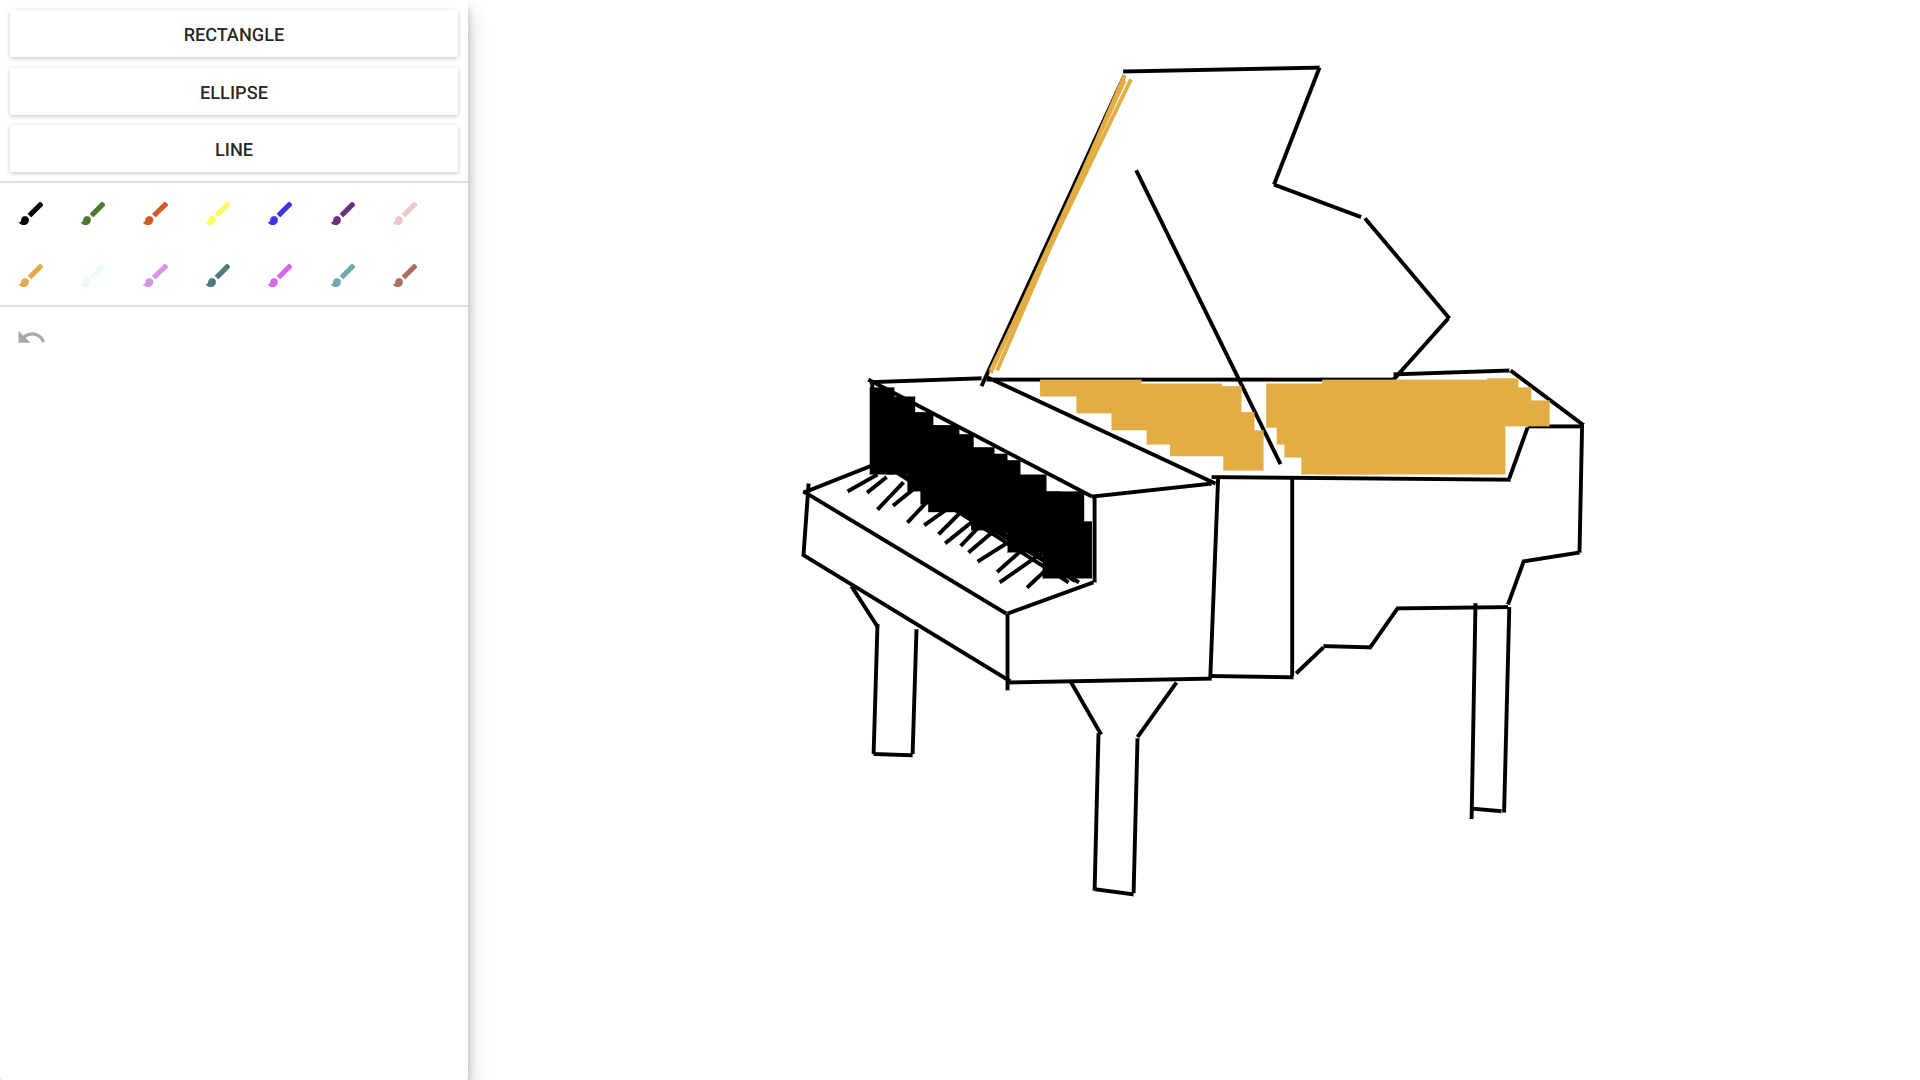
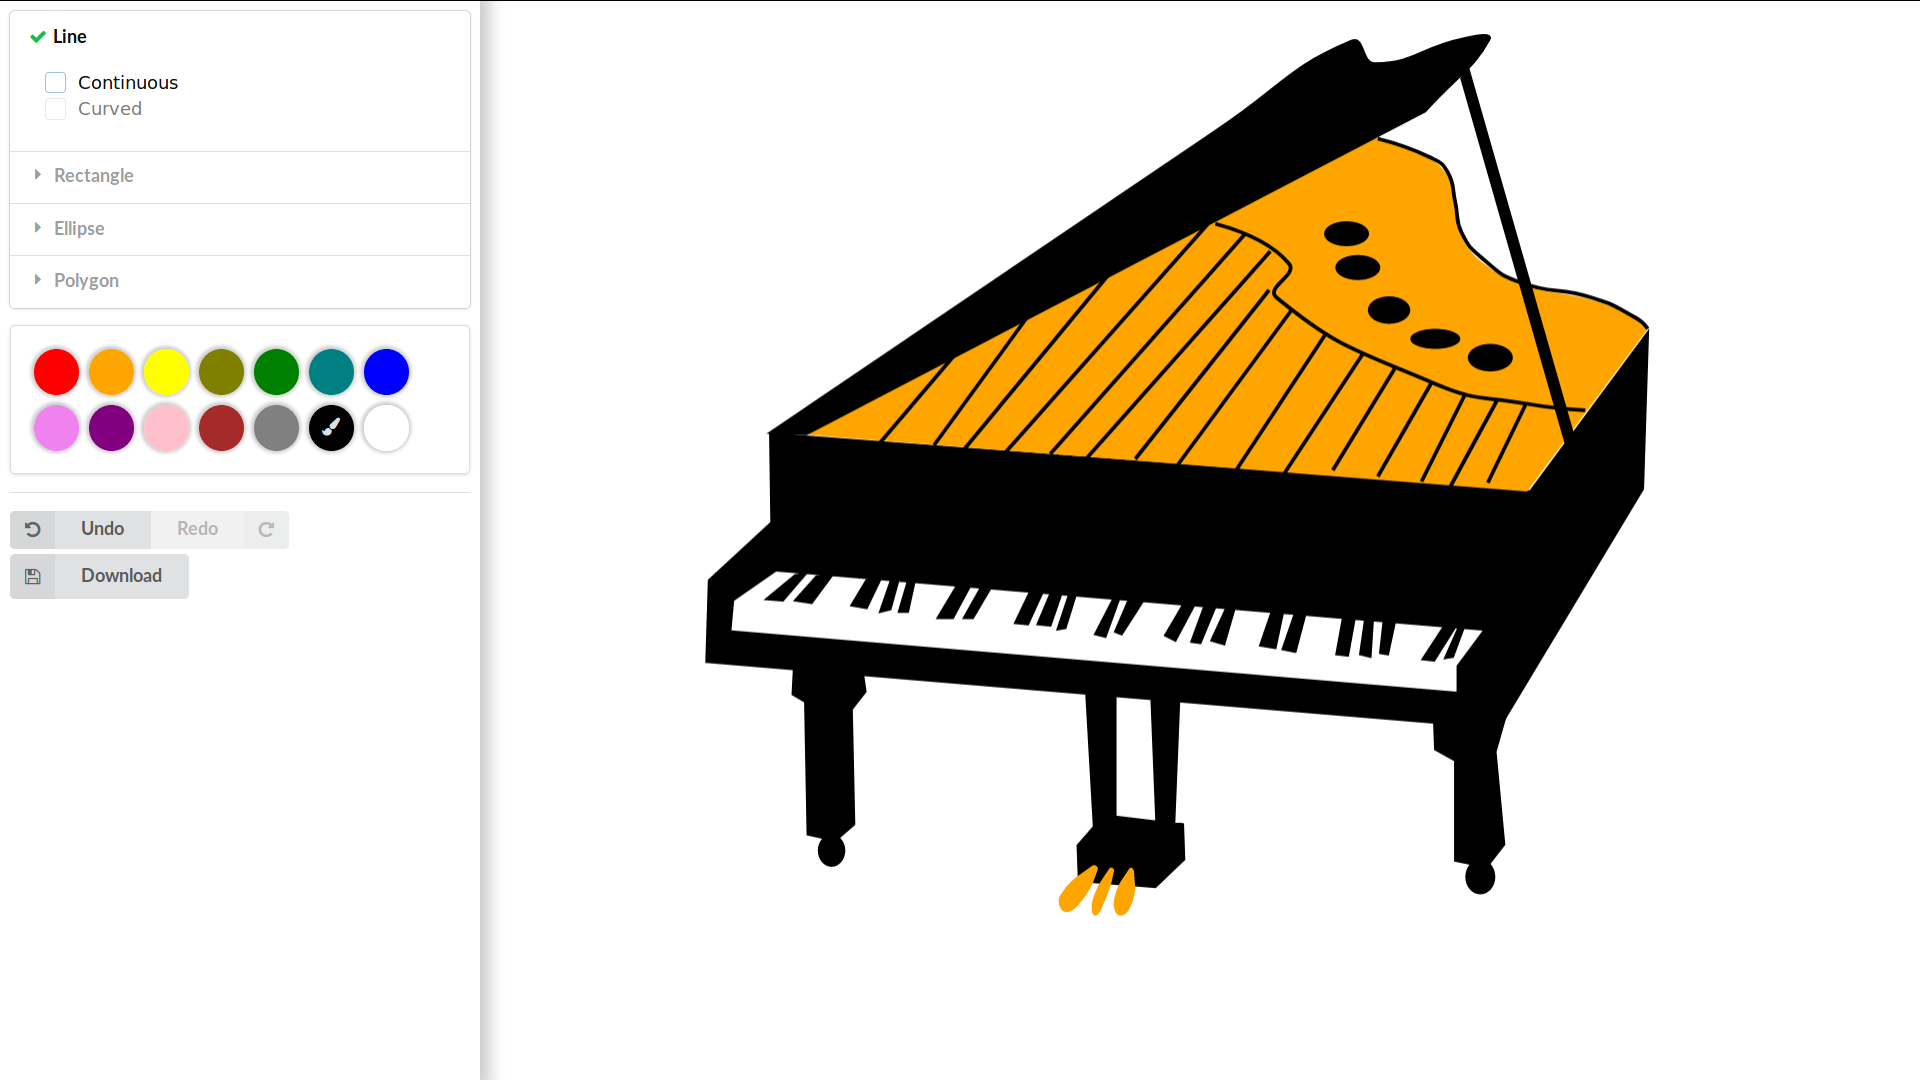
Update readme and demo image

diff --git a/README.md b/README.md
@@ -2,7 +2,3 @@
 The project is hosted on [https://tonyzhang617.github.io/sketchbook/](https://tonyzhang617.github.io/sketchbook/ "Sketchbook").
 # Make Art with Sketchbook! 🎨🎨🎨
 <img width="720" align="center" src="https://github.com/tonyzhang617/sketchbook/blob/master/assets/piano.png" />
-# To-Dos
-- Separate container from component
-- Use Redux
-- Use document listener
